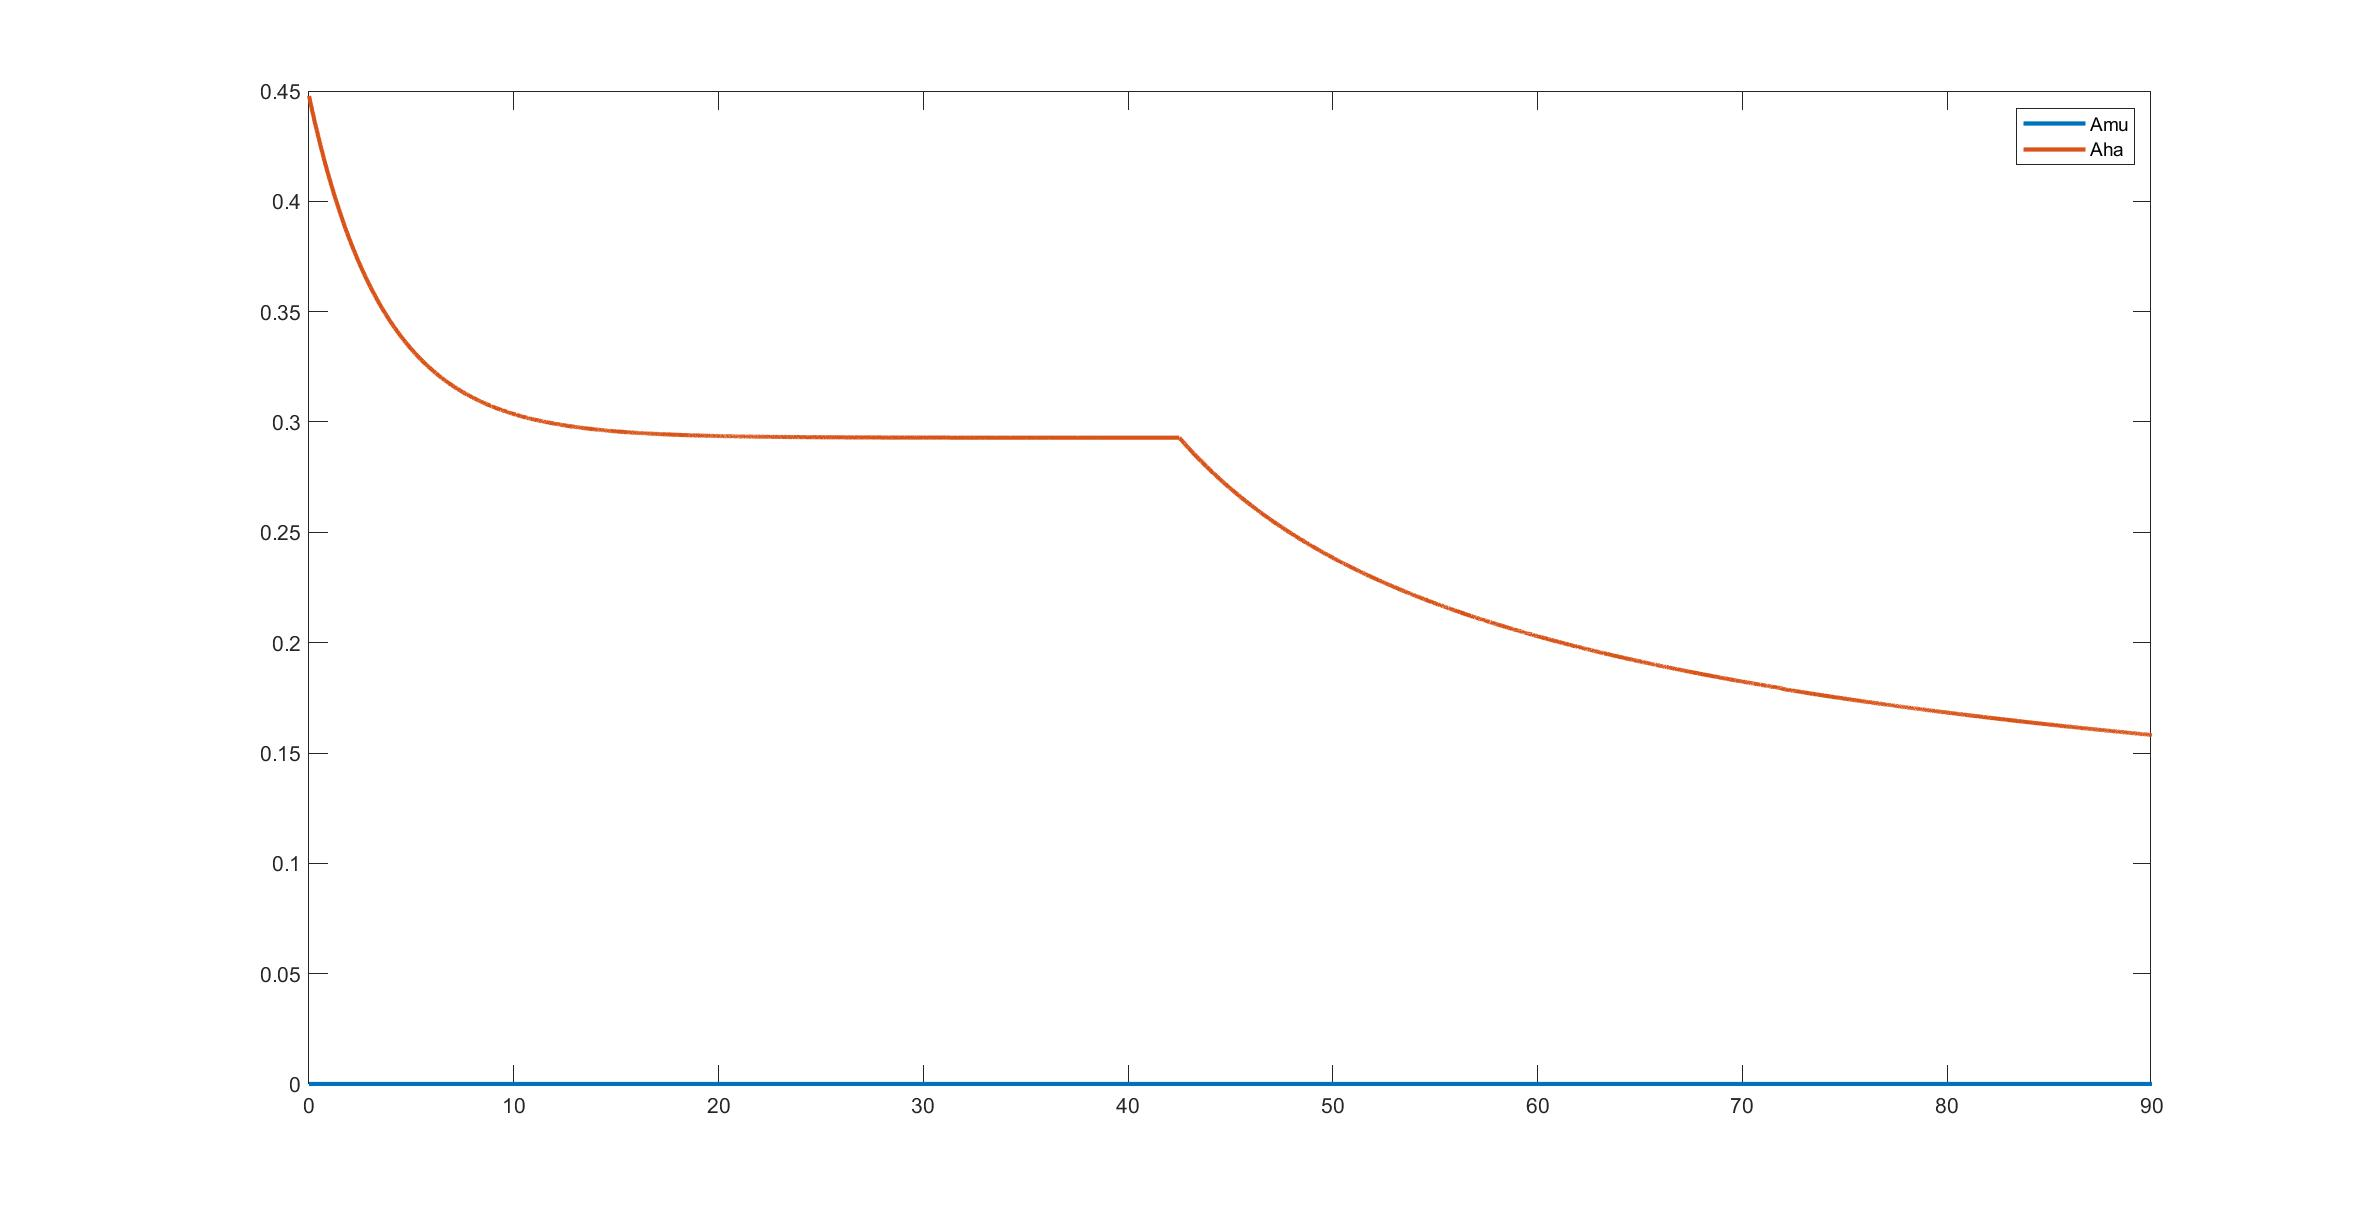
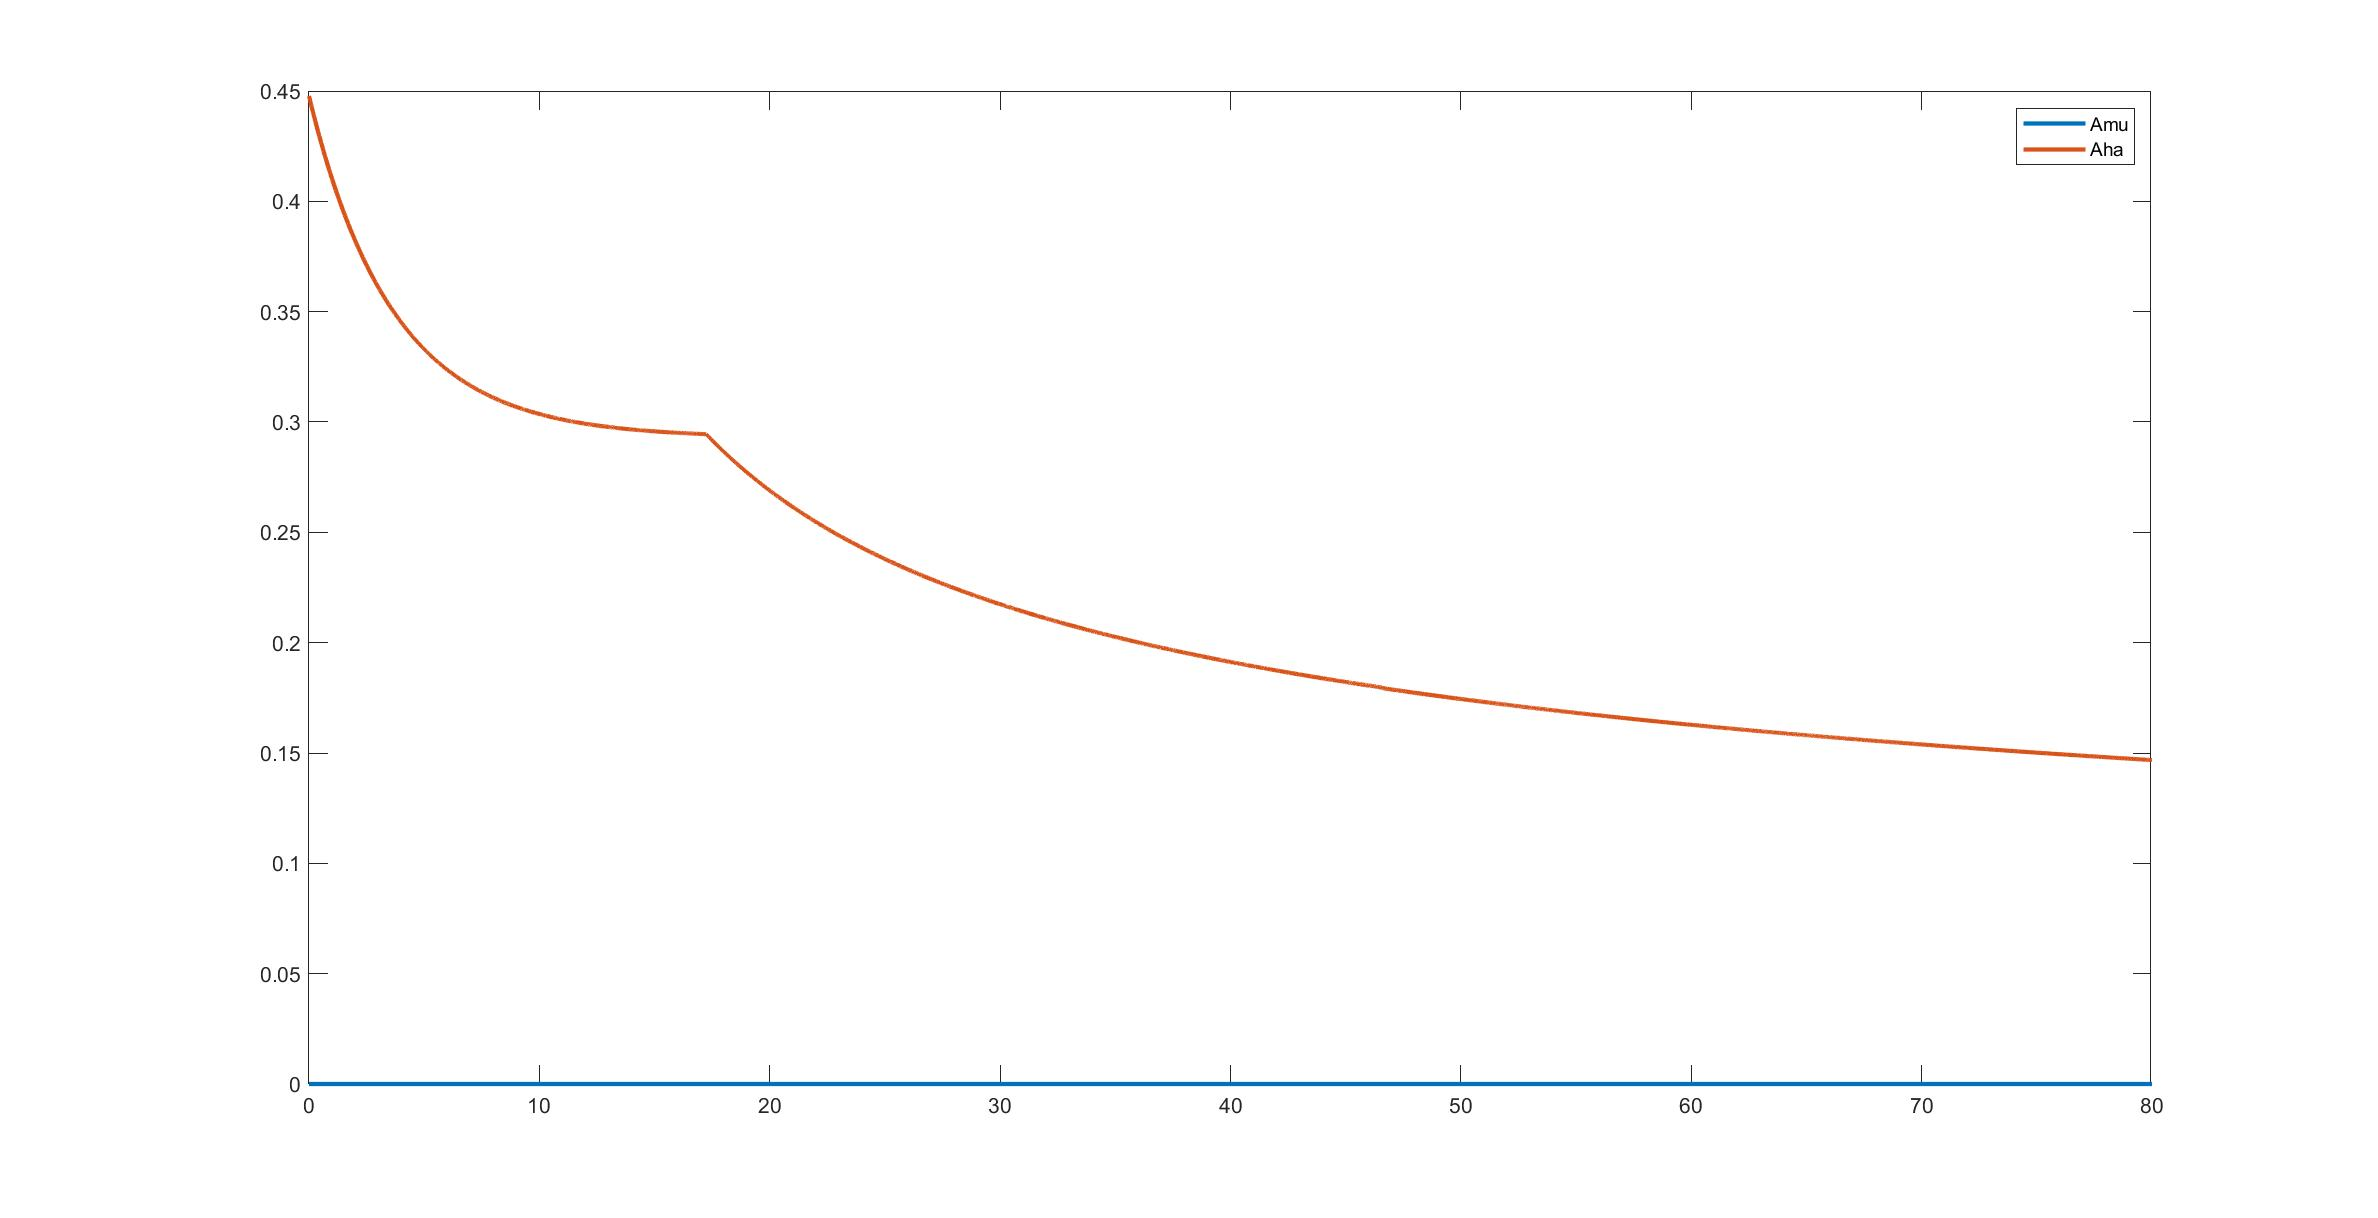
Plots code added

diff --git a/Cooperative_Matlab_Scripts/PrintPlot.m b/Cooperative_Matlab_Scripts/PrintPlot.m
@@ -53,11 +53,11 @@ f = figure('units','normalized','outerposition',[0 0 1 1], 'visible', 'off');
 hplot = plot(plt.t, plt.altitude,'b');
 set(hplot, 'LineWidth', 2);
 hold on; 
-hplot1 = plot([plt.time1, plt.time1], [0, 35], 'g'); 
+hplot1 = plot([plt.time1, plt.time1], [0, 6], 'g'); 
 hold on; 
-hplot2 = plot([plt.time2, plt.time2], [0, 35], 'y');
+hplot2 = plot([plt.time2, plt.time2], [0, 5], 'y');
 hold on; 
-hplot3 = plot([plt.time3, plt.time3], [0, 35], 'r');
+hplot3 = plot([plt.time3, plt.time3], [0, 6], 'r');
 legend('altitude', 'EndingPhase1', 'EndingPhase2', 'EndingPhase3');
 saveas(f, ['Results/' '5.jpg']);
 
@@ -155,6 +155,49 @@ hplot3 = plot([plt.time3, plt.time3], [0, 1], 'r');
 legend('xi', 'EndingPhase1', 'EndingPhase2', 'EndingPhase3');
 saveas(f, ['Results/' '7.jpg']);
 
+
+%% tool position 
+f = figure('units','normalized','outerposition',[0 0 1 1], 'visible', 'off');
+subplot(1,3,1);
+hplot = plot(plt.t, plt.toolPos(1,:), 'r');
+set(hplot, 'LineWidth', 2);
+hold on
+hplot2 = plot([0,65], [plt.goalTool(1), plt.goalTool(1)], 'g');
+legend('x tool position', 'x goal position','Location', 'southeast') 
+
+subplot(1,3,2);
+hplot = plot(plt.t, plt.toolPos(2,:), 'r');
+set(hplot, 'LineWidth', 2);
+hold on
+hplot2 = plot([0,65], [plt.goalTool(2), plt.goalTool(2)], 'g');
+legend('z tool position', 'z goal position','Location', 'southeast')
+
+subplot(1,3,3);
+hplot = plot(plt.t, plt.toolPos(3,:), 'r');
+set(hplot, 'LineWidth', 2);
+hold on
+hplot2 = plot([0,65], [plt.goalTool(3), plt.goalTool(3)], 'g');
+legend('y tool position', 'y goal position', 'Location', 'southeast')
+saveas(f, ['Results/' 'tool_pos.jpg']); 
+
+
+%% joint tool configurations 
+f = figure('units','normalized','outerposition',[0 0 1 1], 'visible', 'off');
+hold on;
+for j = 1:7
+    subplot(3,3,j)
+    set(gca,'ColorOrderIndex',3)
+    hplot = plot(plt.t, plt.q(j,:));
+    ylim([-3, 3])
+    set(hplot, 'LineWidth', 2);
+    %hplot = yline(plt.goal(3,end), 'LineWidth', 3, 'LineStyle','--');
+    xlabel('time [s]')
+    ylabel(strcat('q_',num2str(j), ' [rad]'))
+    hplot = yline(plt.jlmin(j),'r');
+    hplot = yline(plt.jlmax(j),'r');
+end
+
+saveas(f, ['Results/' 'tool_configuration.jpg']); 
 
 
 end 

diff --git a/Cooperative_Matlab_Scripts/MainRobust.m b/Cooperative_Matlab_Scripts/MainRobust.m
@@ -6,7 +6,7 @@ close all
 
 % Simulation variables (integration and final time)
 deltat = 0.005;
-end_time = 90;
+end_time = 80;
 loop = 1;
 maxloops = ceil(end_time/deltat);
 
@@ -109,7 +109,6 @@ for t = 0:deltat:end_time
     [Qp, ydotbar] = iCAT_task(uvms.A.ha,     uvms.Jha,    Qp, ydotbar, uvms.xdot.ha,  0.0001,   0.01, 10);    
     
     %% Ex 1.1.2: "Safe Navigation aciton": Vehicle Position control task 
-    %[Qp, ydotbar] = iCAT_task(uvms.A.v,     uvms.Jv,    Qp, ydotbar, uvms.xdot.v,  0.0001,   0.01, 10); 
     [Qp, ydotbar] = iCAT_task(uvms.A.vang,     uvms.Jvang,    Qp, ydotbar, uvms.xdot.vang,  0.0001,   0.01, 10); 
     [Qp, ydotbar] = iCAT_task(uvms.A.vlin,     uvms.Jvlin,    Qp, ydotbar, uvms.xdot.vlin,  0.0001,   0.01, 10); 
 
@@ -139,8 +138,14 @@ for t = 0:deltat:end_time
     uvms.q = uvms.q + uvms.q_dot*deltat;
     % beware: p_dot should be projected on <v>
     
-    % disturbance for roll angle 
-    %uvms.p_dot(4) = 0.5*sin(2*pi*0.5*t); 
+    % disturbance 
+%     uvms.disturb = zeros(1,3); 
+% 
+%     for i = 1:2 
+%         uvms.disturb(i) = 0.1*sin(2*0.05*pi*t);
+%     end 
+%     
+%     uvms.p_dot(1:3) = uvms.p_dot(1:3) + (uvms.vTw(1:3,1:3) * uvms.disturb');  
     
     uvms.p = integrate_vehicle(uvms.p, uvms.p_dot, deltat);
     
@@ -158,7 +163,7 @@ for t = 0:deltat:end_time
     % add debug prints here
     if (mod(t,0.1) == 0)
         t
-        %uvms.sensorDistance
+        %uvms.altitude
         %w_ang, w_lin] = CartError(uvms.wTgv, uvms.wTv);
         %w_ang 
         %w_lin

diff --git a/Cooperative_Matlab_Scripts/UpdateDataPlot.m b/Cooperative_Matlab_Scripts/UpdateDataPlot.m
@@ -10,6 +10,7 @@ function [ plt ] = UpdateDataPlot( plt, uvms, t, loop )
 plt.t(loop) = t;
 
 plt.toolPos(:, loop) = uvms.wTt(1:3,4);
+plt.goalTool = uvms.goalPosition; 
 
 plt.altitude(:, loop) = uvms.altitude;
 plt.xi(:, loop) = norm(uvms.v_xi); 
@@ -21,9 +22,13 @@ plt.time3 = uvms.time3;
 plt.q(:, loop) = uvms.q;
 plt.q_dot(:, loop) = uvms.q_dot;
 
+plt.jlmin = uvms.jlmin; 
+plt.jlmax = uvms.jlmax; 
+
 plt.p(:, loop) = uvms.p;
 plt.p_dot(:, loop) = uvms.p_dot;
 
+plt.Ajl=uvms.Ajl;
 %plt.xdot_jl(:, loop) = uvms.xdot.jl;
 %plt.xdot_mu(:, loop) = uvms.xdot.mu;
 plt.xdot_t(:, loop) =  blkdiag(uvms.wTv(1:3,1:3), uvms.wTv(1:3,1:3))*uvms.xdot.t;

diff --git a/Cooperative_Matlab_Scripts/InitDataPlot.m b/Cooperative_Matlab_Scripts/InitDataPlot.m
@@ -14,6 +14,12 @@ function [plt] = InitDataPlot( maxloops)
     plt.time2 = 0; 
     plt.time3 = 0; 
     
+    plt.toolPos = zeros(3, maxloops); 
+    
+    plt.goalTool = zeros(3,maxloops); 
+    
+    plt.Ajl=zeros();
+    
     plt.xdot_jl = zeros(7, maxloops);
     plt.xdot_mu = zeros(1, maxloops);
     plt.xdot_t = zeros(6, maxloops);
